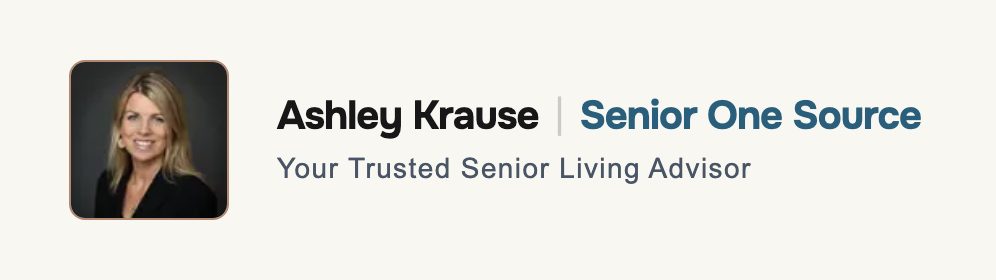
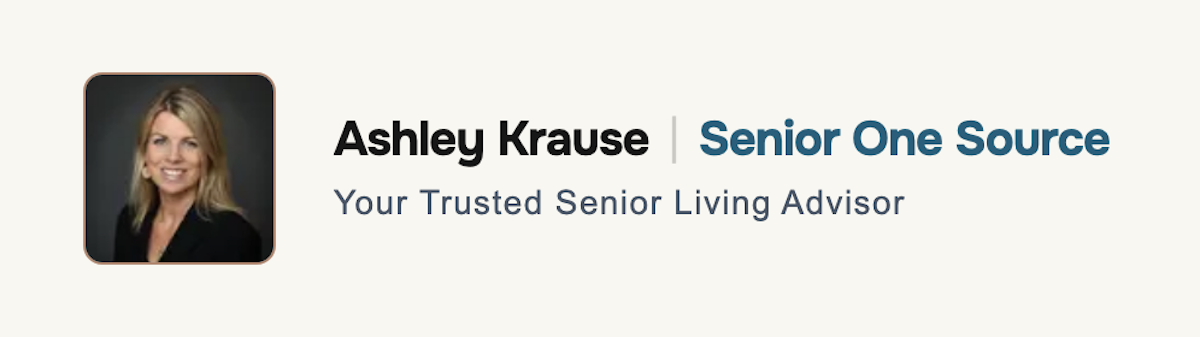
og image size

diff --git a/src/app/layout.tsx b/src/app/layout.tsx
@@ -14,7 +14,7 @@ export const metadata: Metadata = {
     url: "https://ashleykrause.me",
     siteName: "ashleykrause.me",
     images: [
-      {url: "https://ashleykrause.me/og-image.png", width: 996, height: 280, alt: "Ashley Krause"},
+      {url: "https://ashleykrause.me/og-image.png", width: 1200, height: 337, alt: "Ashley Krause"},
     ],
     locale: "en_US",
     type: "website",
